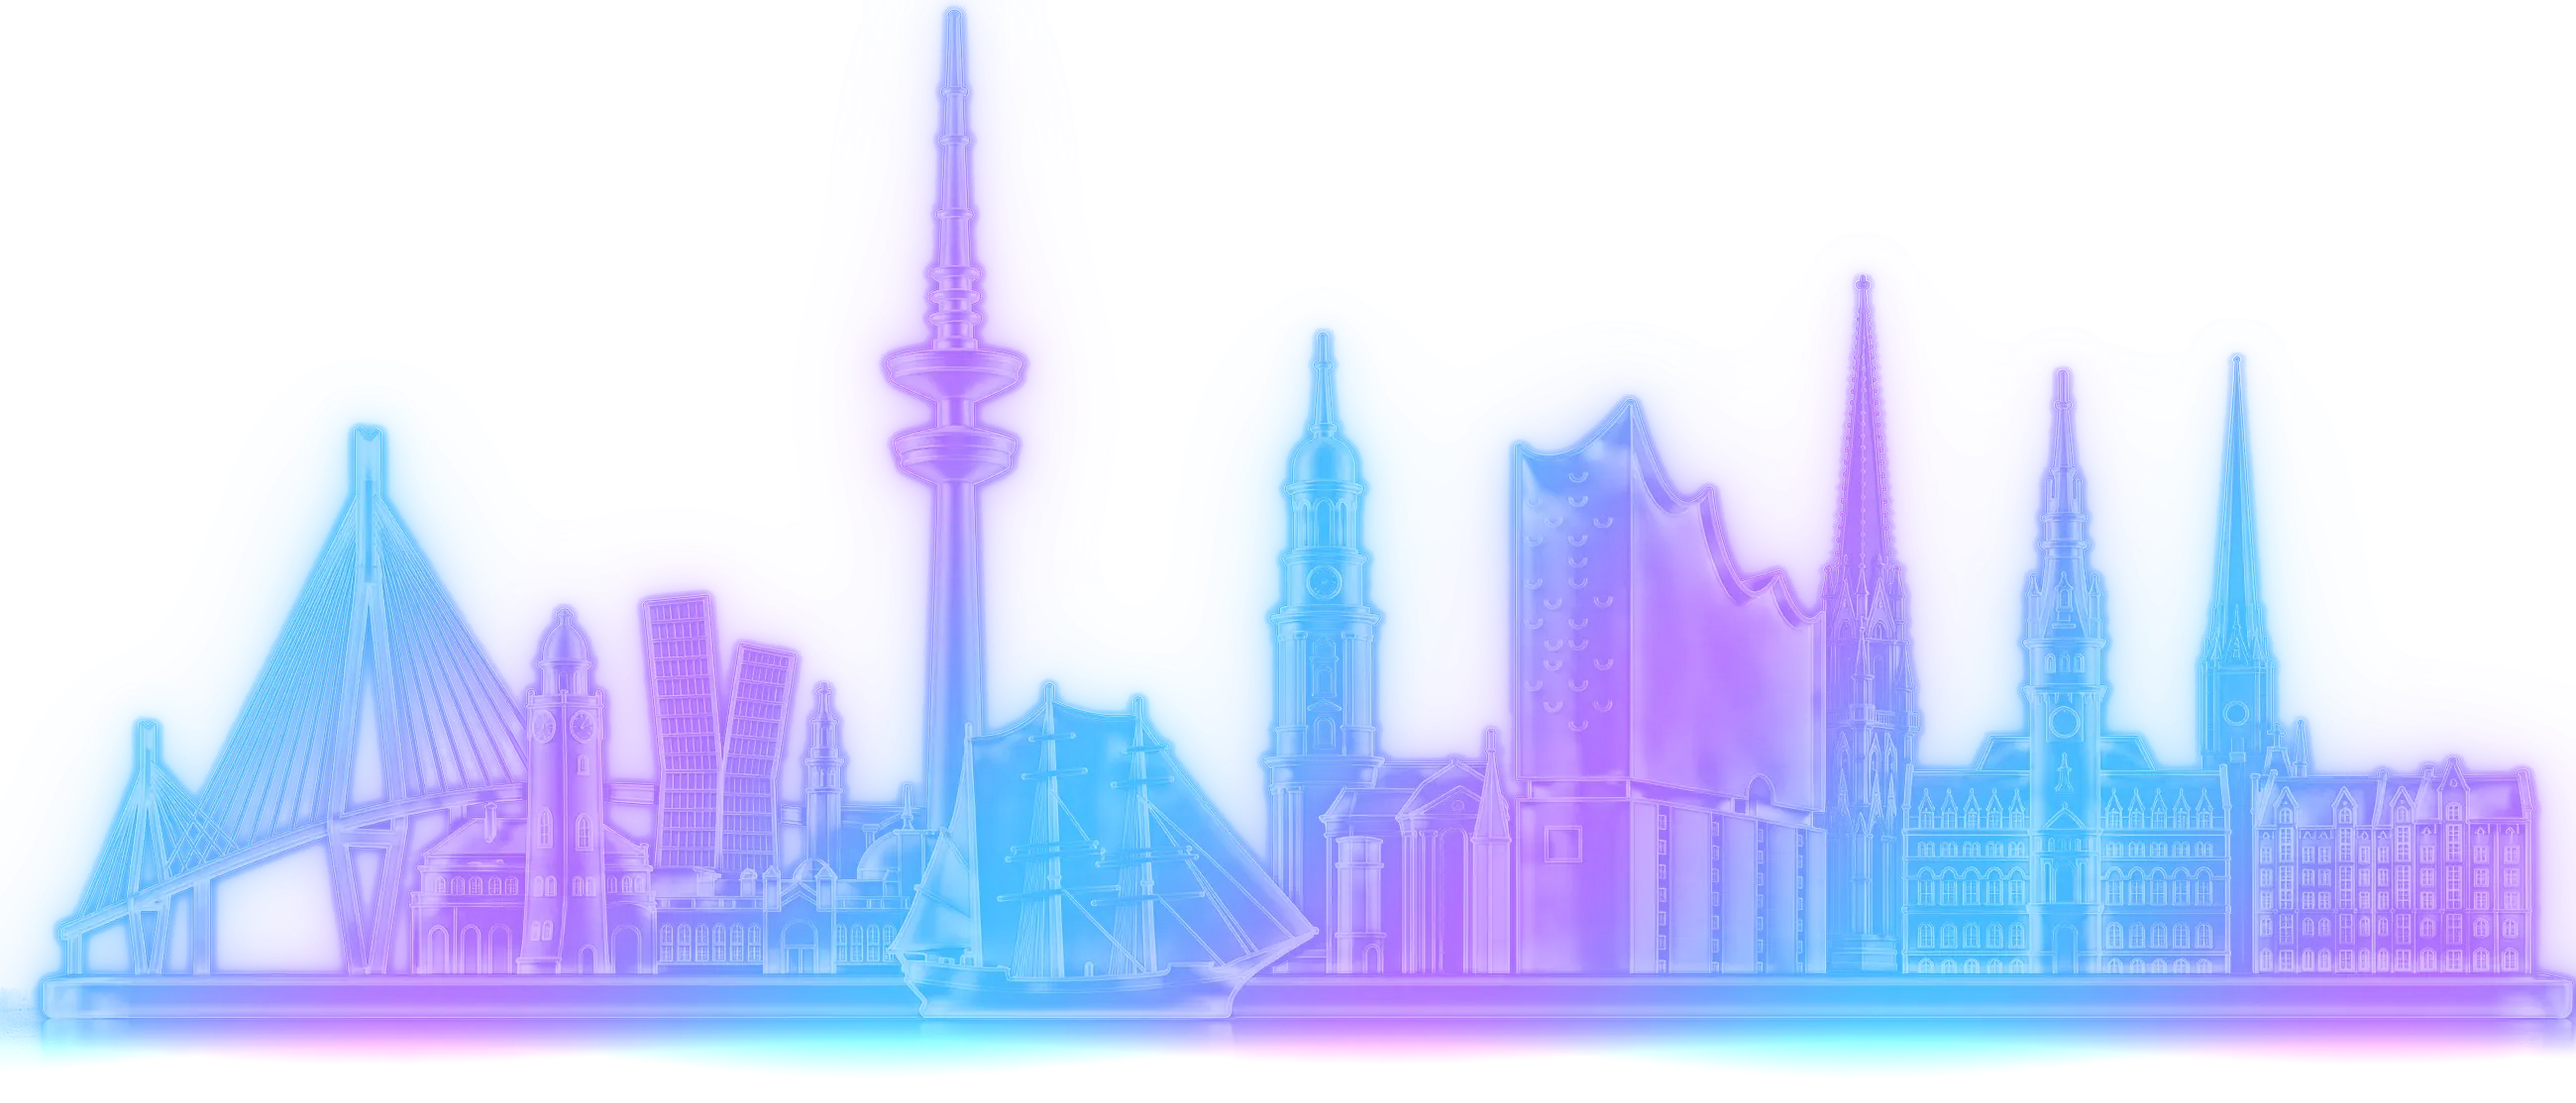
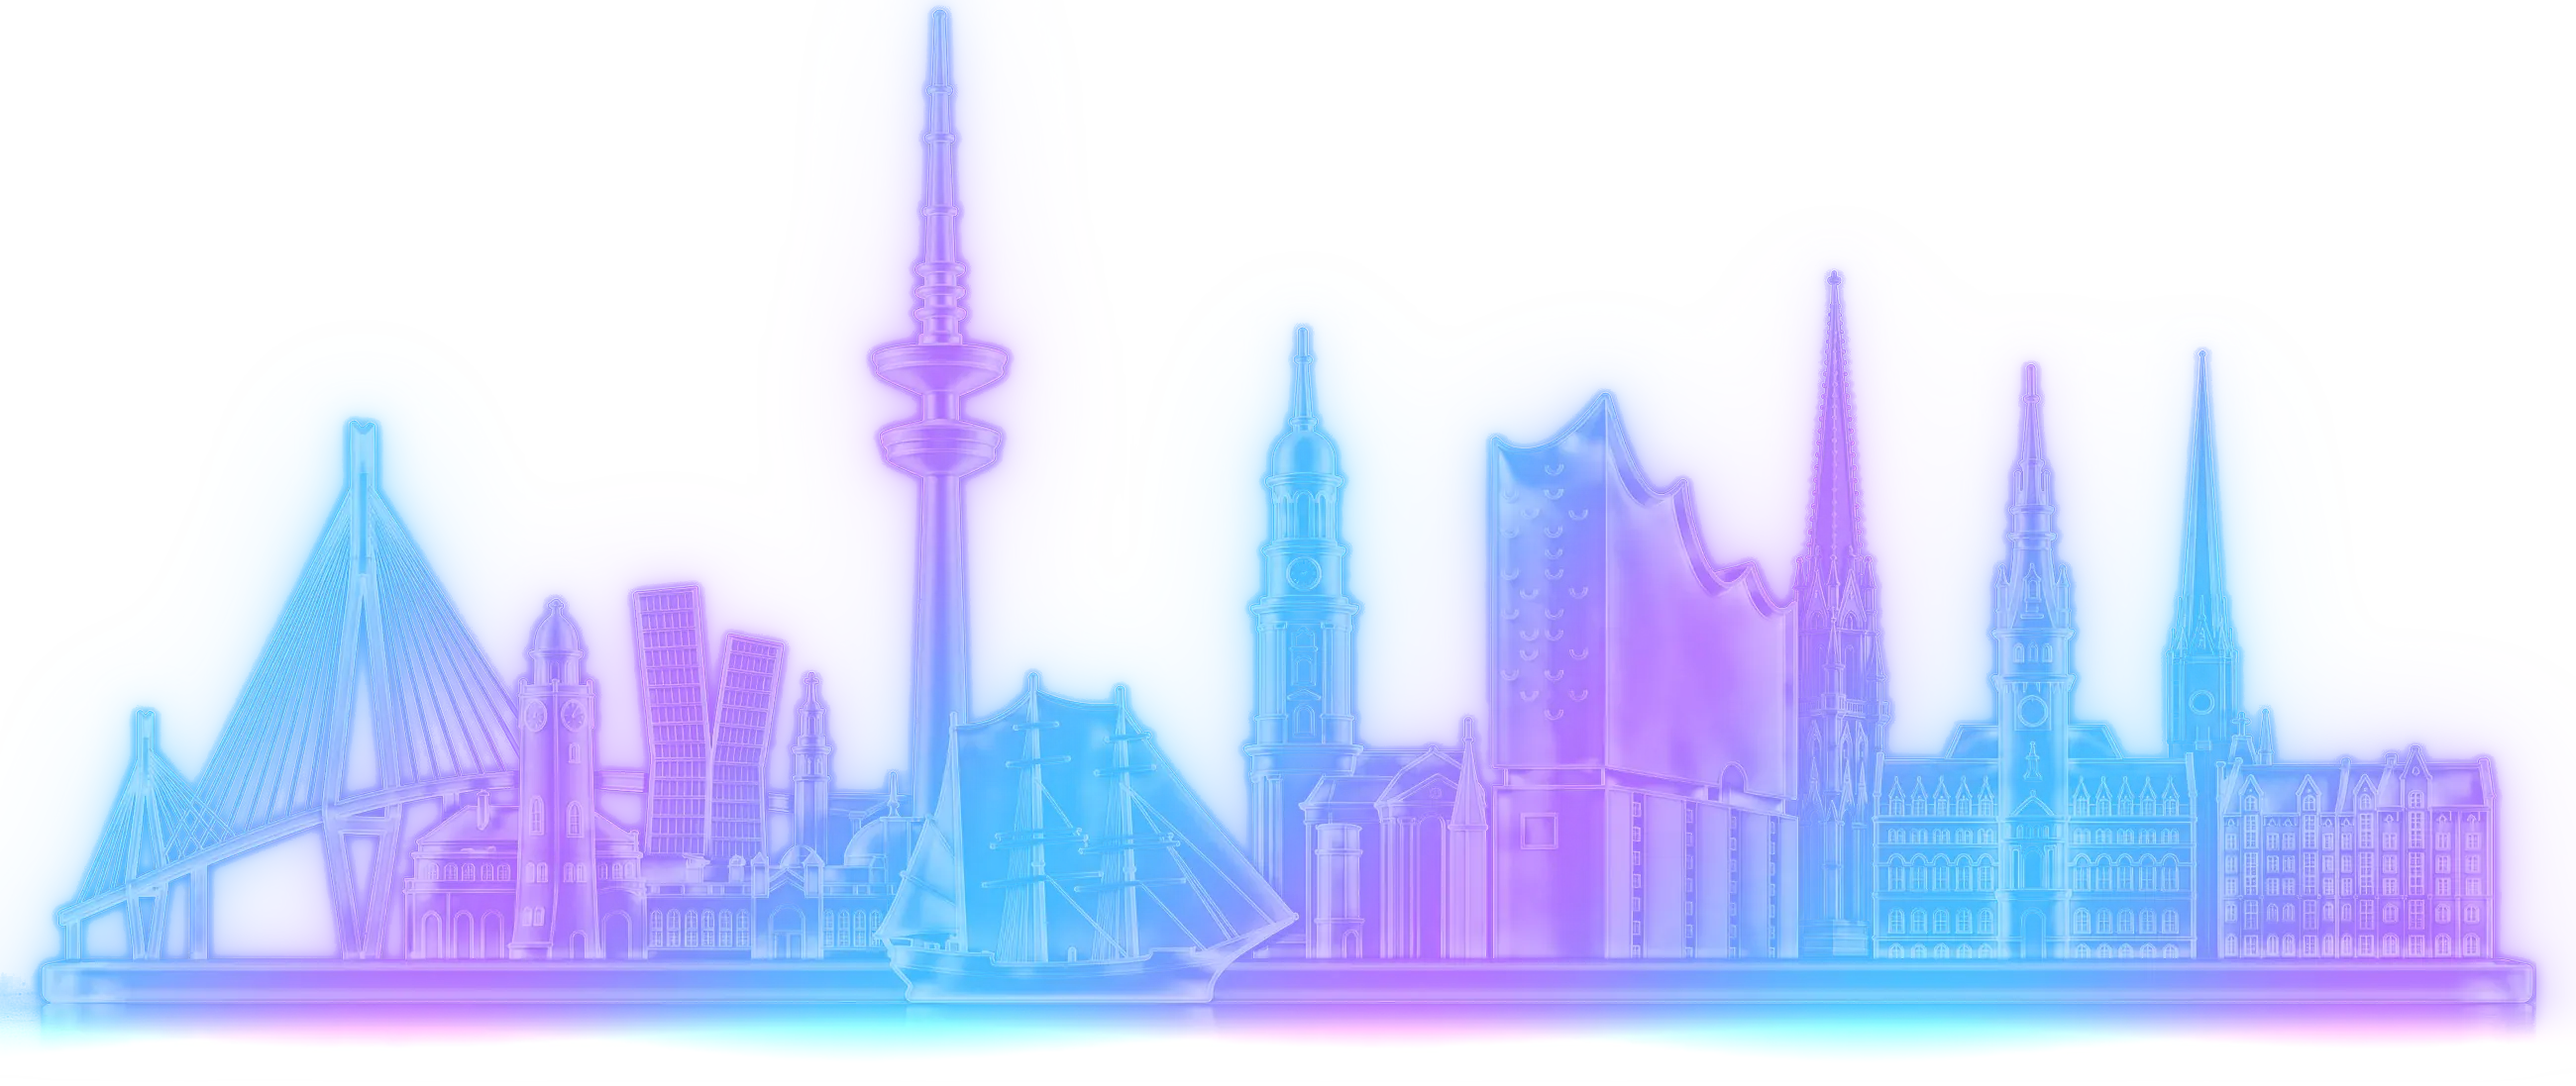
fix(lavender): the glass skyline stands in the middle of the picture
In the rendering the base plate had 51 px of room on the left and 2 px
on the right, so on screen the sculpture sat visibly closer to the right
edge (1.65 % against 0.12 % of the width). The script now adds black to
the narrower side until both gaps are equal, and both pictures are
rendered anew (2600 × 1097, gaps 42 and 43 px).

What hangs on the picture follows: aspect ratio of .lav-hamburg,
SKYLINE_RATIO, the landmarks' positions (factor 0.9846) and the guide
star's rest place above the Speicherstadt.

Changed region(s): [[0.0312, 0.0, 1.0, 0.9608]]

diff --git a/src/components/lavender/HamburgGlass.tsx b/src/components/lavender/HamburgGlass.tsx
@@ -11,7 +11,7 @@ import { cn } from '@/components/ui/utils';
  * coloured blue to violet).
  *
  * Two congruent renderings with a transparent ground
- * (public/images/hamburg-glas-*.webp, 2600 × 1114): one unlit, one lit from
+ * (public/images/hamburg-glas-*.webp, 2600 × 1097): one unlit, one lit from
  * inside in the double star's colours. No blend mode, so the city may stand
  * in a sticky or transformed parent. At rest the city is dark; the lit rendering shows through an elliptical
  * mask that follows the pointer (styles: .lav-hamburg in globals.css).
@@ -29,16 +29,16 @@ import { cn } from '@/components/ui/utils';
 /** Landmarks left to right: centre x, half width, light centre y, light height (fractions of the image). */
 // From west to east, as the city lies along the Elbe.
 const LANDMARKS = [
-  { x: 0.125, half: 0.09, y: 0.68 }, // Köhlbrandbrücke
-  { x: 0.24, half: 0.09, y: 0.78 }, // Landungsbrücken, dahinter die Tanzenden Türme
-  { x: 0.371, half: 0.03, y: 0.45 }, // Fernsehturm
-  { x: 0.43, half: 0.082, y: 0.78 }, // Rickmer Rickmers
-  { x: 0.513, half: 0.05, y: 0.6 }, // Michel
-  { x: 0.645, half: 0.063, y: 0.64 }, // Elbphilharmonie
-  { x: 0.725, half: 0.03, y: 0.55 }, // St. Nikolai
-  { x: 0.8, half: 0.065, y: 0.64 }, // Rathaus
-  { x: 0.866, half: 0.03, y: 0.55 }, // St. Petri
-  { x: 0.928, half: 0.055, y: 0.8 }, // Speicherstadt
+  { x: 0.123, half: 0.089, y: 0.68 }, // Köhlbrandbrücke
+  { x: 0.236, half: 0.089, y: 0.78 }, // Landungsbrücken, dahinter die Tanzenden Türme
+  { x: 0.365, half: 0.03, y: 0.45 }, // Fernsehturm
+  { x: 0.423, half: 0.081, y: 0.78 }, // Rickmer Rickmers
+  { x: 0.505, half: 0.049, y: 0.6 }, // Michel
+  { x: 0.635, half: 0.062, y: 0.64 }, // Elbphilharmonie
+  { x: 0.714, half: 0.03, y: 0.55 }, // St. Nikolai
+  { x: 0.788, half: 0.064, y: 0.64 }, // Rathaus
+  { x: 0.853, half: 0.03, y: 0.55 }, // St. Petri
+  { x: 0.914, half: 0.054, y: 0.8 }, // Speicherstadt
 ] as const;
 
 /** Where the light is (fractions of the picture), its radius as a fraction of the width, its strength. */

diff --git a/src/components/lavender/nightSky.ts b/src/components/lavender/nightSky.ts
@@ -30,7 +30,7 @@ const DEFAULT_SOURCES = { double: '/images/nacht-stern-doppel.webp' };
 /** Mostly white, a few in the brand's light tints. */
 const TINTS = ['#ffffff', '#ffffff', '#ffffff', '#f5e1ff', '#bde3f4', '#bde3f4'];
 /** Height / width of the Hamburg rendering (HamburgGlass). */
-const SKYLINE_RATIO = 1114 / 2600;
+const SKYLINE_RATIO = 1097 / 2600;
 
 type FieldStar = { angle: number; radius: number; size: number; tint: string; rate: number; phase: number };
 /** One star glinting: which one, since when, for how long, and how long its cross gets (px). */
@@ -256,7 +256,7 @@ export function startNightSky(
     // text block sits above the middle of the city).
     const box = city?.getBoundingClientRect();
     const skyline = box ? box.height : W * SKYLINE_RATIO;
-    const at = { x: 0.9, y: 0.3 };
+    const at = { x: 0.886, y: 0.3 };
     const land = {
       // Never off screen (on phones the city is wider than the screen).
       x: Math.min(W * 0.86, (box ? box.left : 0) + (box ? box.width : W) * at.x),

diff --git a/src/styles/globals.css b/src/styles/globals.css
@@ -809,7 +809,7 @@ html {
      round window that follows the pointer (HamburgGlass.tsx moves it). */
   .lav-hamburg {
     position: relative;
-    aspect-ratio: 2600 / 1114;
+    aspect-ratio: 2600 / 1097;
     touch-action: pan-y;
   }
   .lav-hamburg > div,

diff --git a/scripts/skyline/skyline_to_webp.py b/scripts/skyline/skyline_to_webp.py
@@ -6,6 +6,17 @@ src, outdir = sys.argv[1], sys.argv[2]
 im = Image.open(src).convert('RGB')
 a = np.asarray(im).astype(np.float32) / 255
 b = a.max(axis=2)
+# the sculpture stands in the middle: the rendering has it off centre (a wider gap left of the
+# base than right of it), so the narrower side gets black added until both gaps are the same
+cols = np.where(b.max(axis=0) > 0.3)[0]
+gap_l, gap_r = int(cols[0]), int(im.width - 1 - cols[-1])
+if gap_l != gap_r:
+    wide = Image.new('RGB', (im.width + abs(gap_l - gap_r), im.height), (0, 0, 0))
+    wide.paste(im, (max(0, gap_r - gap_l), 0))
+    print('centred: gaps', gap_l, gap_r, '->', max(gap_l, gap_r), 'of', wide.width, '| x scale', round(im.width / wide.width, 5), '| x shift', max(0, gap_r - gap_l))
+    im = wide
+    a = np.asarray(im).astype(np.float32) / 255
+    b = a.max(axis=2)
 rows = np.where(b.max(axis=1) > 0.08)[0]
 top = max(0, rows[0] - int(im.height * 0.015))
 crop = im.crop((0, top, im.width, im.height))

diff --git a/scripts/skyline/README.md b/scripts/skyline/README.md
@@ -10,7 +10,7 @@ Beide entstehen aus **einem** Rendering per Skript und werden nie von Hand bearb
 
 - `hamburg-skyline-flux-original.png` – das Rendering (FLORA, FLUX, 3136 × 1344, schwarzer Grund),
   in einem Zug aus einer einheitlich weichgezeichneten Vorlage gerendert
-- `skyline_to_webp.py` – schneidet es zu, skaliert auf 2600 px Breite, macht den Grund
+- `skyline_to_webp.py` – setzt die Skulptur waagerecht in die Mitte, schneidet zu, skaliert auf 2600 px Breite, macht den Grund
   transparent und erzeugt beide WebP-Dateien
 
 ```bash
@@ -26,12 +26,13 @@ Diese Stellen hängen am Bild und müssen mit:
 
 - `LANDMARKS` in `src/components/lavender/HamburgGlass.tsx` – Positionen der Wahrzeichen,
   zwischen denen das Licht ohne Zeiger wandert
-- `aspect-ratio` von `.lav-hamburg` in `src/styles/globals.css` (heute `2600 / 1114`)
-- `SKYLINE_RATIO` in `src/components/lavender/nightSky.ts` (heute `1114 / 2600`)
+- `aspect-ratio` von `.lav-hamburg` in `src/styles/globals.css` (heute `2600 / 1097`)
+- `SKYLINE_RATIO` in `src/components/lavender/nightSky.ts` (heute `1097 / 2600`)
 
 ## Stand 13.11.2026
 
-Das Skript erzeugt `hamburg-glas-dunkel.webp` aus diesem Rendering bis auf
-Encoder-Rauschen gleich. `hamburg-glas-licht.webp` weicht leicht ab (im Mittel 2 von 255,
-die neue Datei wäre 589 statt 484 KB): Die eingecheckte Fassung stammt aus einem etwas
-früheren Stand des Skripts. Beim nächsten Durchlauf werden beide neu erzeugt.
+Beide Dateien sind mit dem Skript neu erzeugt (2600 × 1097). Seitdem setzt es die Skulptur
+waagerecht in die Mitte: Im Rendering hatte die Sockelplatte links 51 px und rechts 2 px Abstand
+zum Bildrand, das Skript ergänzt rechts Schwarz, bis beide Abstände gleich sind (je rund 42 px
+bei 2600 px Breite). Die Wahrzeichen liegen dadurch um den Faktor 0,9846 weiter links; `LANDMARKS`
+und der Ruheplatz des Leitsterns (`at` in `nightSky.ts`) sind angepasst.
